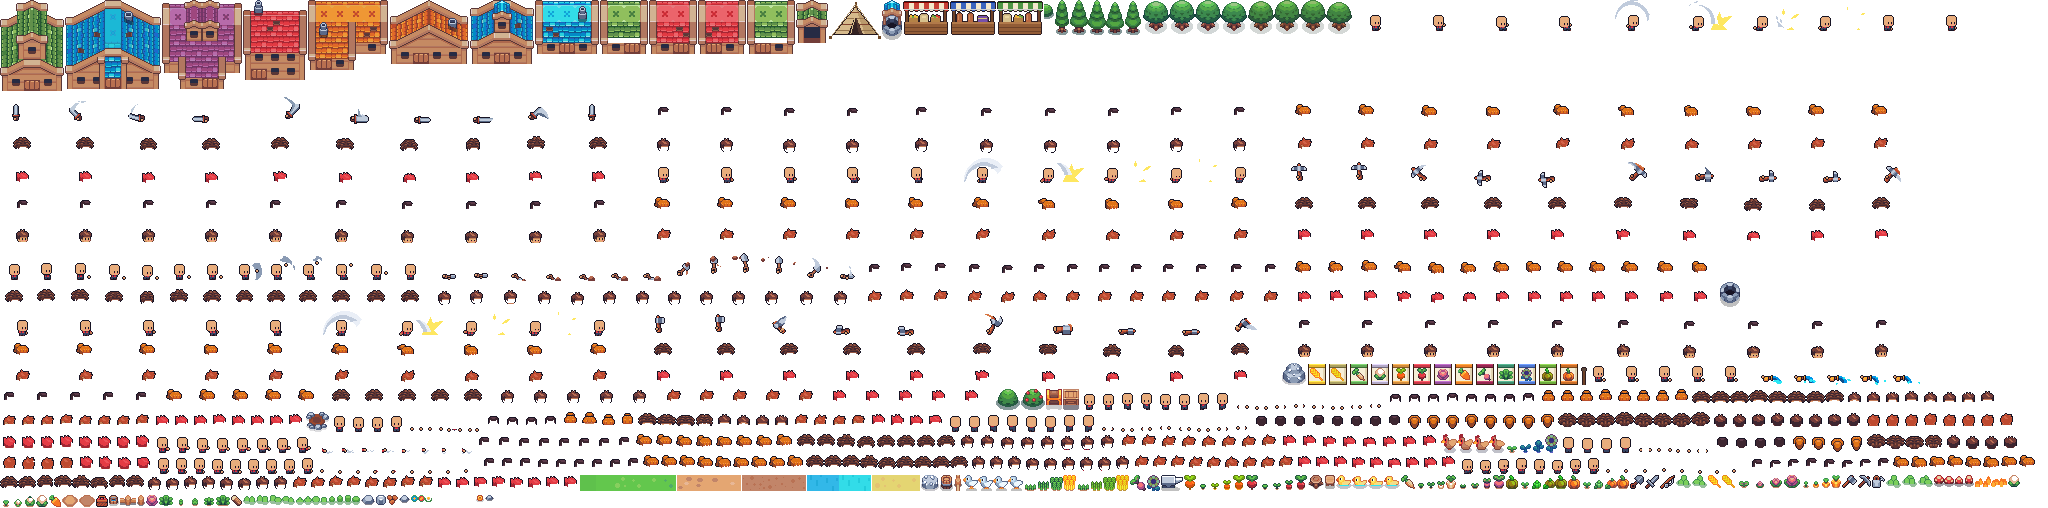
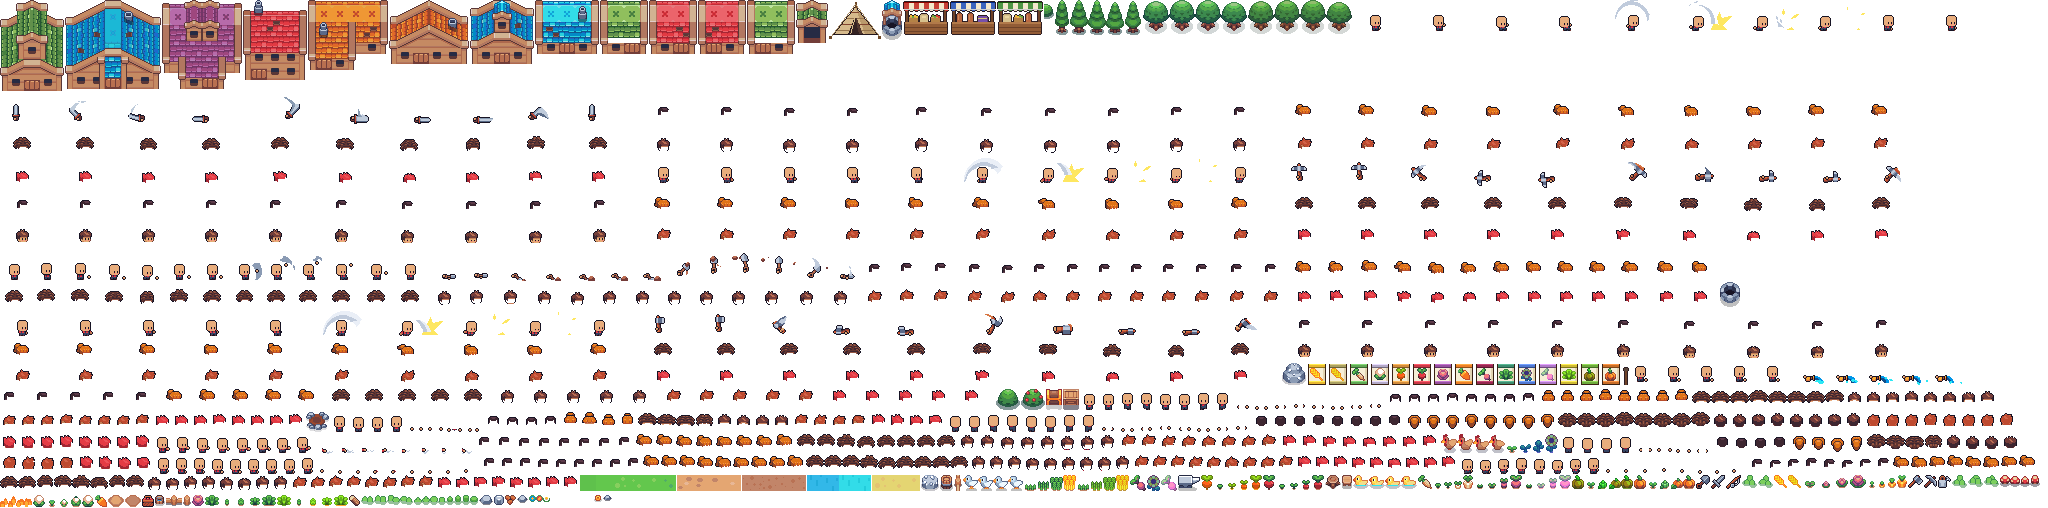
Enterable carpenter's workshop with Joseph at his planning table; winter crops (turnips, mustard, plus cabbage, leeks, garlic)
Claude-Session: https://claude.ai/code/session_01C2kAzymCygSubPfDnKkPKq

Changed region(s): [[0.5625, 0.9154, 1.0, 0.9744], [0.75, 0.7087, 0.9688, 0.7677], [0.0, 0.9744, 0.2812, 1.0]]

diff --git a/public/js/interior.js b/public/js/interior.js
@@ -9,6 +9,7 @@ const ROOMS = {
     gen: () => genSynagogue(), draw: (...a) => drawChurchRoom(...a),
   },
   inn: { name: 'The Inn', x0: 26, x1: 38, top: 22, bot: 31, door: 32, shop: 'inn', gen: () => genInn(), draw: (...a) => drawInnRoom(...a) },
+  carpenter: { name: 'Carpenter', x0: 28, x1: 36, top: 23, bot: 30, door: 32, shop: 'carpenter', gen: () => genCarp(), draw: (...a) => drawCarpRoom(...a) },
   smithy: { name: 'Blacksmith', x0: 28, x1: 36, top: 23, bot: 30, door: 32, shop: 'smithy', gen: () => genSmithy(), draw: (...a) => drawSmithyRoom(...a) },
 };
 // door of a building in town, in world tiles: [centre x, the y just in front of it]
@@ -16,7 +17,7 @@ function bldDoor(k) {
   for (let i = 0; i < W * H; i++) { const o = World.maps.town.objs[i]; if (o && o.t === 'bld' && o.k === k) { const x = i % W, y = (i / W) | 0, b = BLD[k], s = AT[b[0]][0]; return [(x * 16 + b[1] * 8 - s.width / 2 + DOOR_PX[k]) / 16, y + 1] } }
   return null;
 }
-const DOOR_PX = { synagogue: 48, smithy: 16, inn: 48 };   // door centre, in pixels from the left of the building sprite
+const DOOR_PX = { synagogue: 48, smithy: 16, inn: 48, carpenter: 30 };   // door centre, in pixels from the left of the building sprite
 
 // ---------- the synagogue's room ----------
 // a blank room: solid everywhere outside the floor, with a gap for the door. Returns a furniture placer.
@@ -32,6 +33,12 @@ function genInn() {
   put(29, 25, 'bar', 6);                                    // Miriam serves food across this
   for (const [x, y] of [[26, 27], [36, 27], [26, 30], [36, 30]]) put(x, y, 'table', 3);
   put(38, 25, 'ibarrel'); put(26, 25, 'iplant');
+}
+function genCarp() {
+  const put = roomBase(ROOMS.carpenter);
+  put(28, 23, 'lumber', 2); put(30, 23, 'pegboard', 2); put(33, 23, 'models', 2);
+  put(29, 26, 'plans', 7);                                  // order buildings from Joseph across this
+  put(35, 24, 'sawhorse'); put(28, 28, 'chair'); put(36, 28, 'planks'); put(28, 30, 'sbarrel'); put(36, 30, 'iplant');
 }
 function genSmithy() {
   const put = roomBase(ROOMS.smithy);
@@ -120,7 +127,7 @@ function drawChurchRoom(g, x0, y0, x1, y1, t) {
 
 function drawFurn(g, o, x, y, t) {
   const X = x * 16, Y = y * 16, B = Y + 16, w = (o.w || 1) * 16;
-  if (drawSmithFurn(g, o, X, Y, B, w, t) || drawInnFurn(g, o, X, Y, B, w, t)) return;
+  if (drawSmithFurn(g, o, X, Y, B, w, t) || drawInnFurn(g, o, X, Y, B, w, t) || drawCarpFurn(g, o, X, Y, B, w, t)) return;
   const shadow = (sx, sw) => px(g, 'rgba(60,35,15,.22)', sx, B - 2, sw, 2);
   switch (o.k) {
     case 'pew': {   // walnut benches, gold caps, crimson cushions
@@ -384,6 +391,91 @@ function drawInnFurn(g, o, X, Y, B, w, t) {
   return true;
 }
 
+// ---------- the carpenter's workshop ----------
+const CP = { ink: '#2e1a0e', wallA: '#b8875a', wallB: '#a77a50', wallLine: '#7e5634', post: '#6a4426', postHi: '#8e5e36', postLo: '#432916',
+  floorA: '#d0a46e', floorB: '#c4986a', floorLine: '#9a7048', dust: '#ead2a0', dustLo: '#d6b880', plank: '#d9a868', plankHi: '#f0c890', plankLo: '#a8784a',
+  paper: '#f2e8cc', blue: '#3a6ab0', iron: '#6c7884', ironHi: '#a7b3bf' };
+function drawCarpRoom(g, x0, y0, x1, y1, t) {
+  const R = ROOMS[World.cur]; g.fillStyle = WG.dark; g.fillRect(x0 * 16, y0 * 16, (x1 - x0 + 1) * 16, (y1 - y0 + 1) * 16);
+  const L = R.x0 * 16, Rr = (R.x1 + 1) * 16, T = R.top * 16, B = (R.bot + 1) * 16;
+  // wide pale floorboards running front to back, sprinkled with sawdust
+  for (let x = L, c = 0; x < Rr; x += 9, c++) { px(g, c % 2 ? CP.floorA : CP.floorB, x, T, 9, B - T); px(g, CP.floorLine, x + 8, T, 1, B - T); for (let y = T + ((c * 37) % 50); y < B; y += 50) px(g, CP.floorLine, x, y, 8, 1) }
+  for (let i = 0; i < 70; i++) { const sx = L + (hash(i, 3) * (Rr - L) | 0), sy = T + (hash(3, i) * (B - T) | 0); px(g, i % 3 ? CP.dust : CP.dustLo, sx, sy, i % 4 ? 1 : 2, 1) }
+  for (const [cx, cy, r] of [[L + 120, T + 30, 9], [L + 30, T + 74, 7], [Rr - 22, T + 60, 6]]) for (let i = 0; i < 26; i++) { const a = hash(i, cx) * 6.28, d = hash(cx, i) * r; px(g, i % 2 ? CP.dust : CP.dustLo, cx + Math.cos(a) * d | 0, cy + Math.sin(a) * d * .5 | 0, 2, 1) }
+  // back wall: horizontal timber boards with posts and a window
+  const WT = T - 40;
+  for (let y = WT, r = 0; y < T; y += 5, r++) { px(g, r % 2 ? CP.wallA : CP.wallB, L, y, Rr - L, 5); px(g, CP.wallLine, L, y + 4, Rr - L, 1) }
+  for (let x = L; x <= Rr - 4; x += 48) { px(g, CP.postLo, x, WT, 5, 40); px(g, CP.post, x + 1, WT, 3, 40); px(g, CP.postHi, x + 1, WT, 1, 40) }
+  px(g, CP.postLo, L, WT, Rr - L, 5); px(g, CP.post, L, WT, Rr - L, 4); px(g, CP.postHi, L, WT, Rr - L, 1); px(g, CP.ink, L, T - 1, Rr - L, 1);
+  const wx = 35 * 16 + 2; px(g, CP.ink, wx, WT + 9, 16, 16); px(g, '#9fd2ef', wx + 1, WT + 10, 14, 14); px(g, '#d5eefa', wx + 2, WT + 11, 4, 6); px(g, CP.post, wx + 7, WT + 10, 2, 14); px(g, CP.post, wx + 1, WT + 16, 14, 2); px(g, CP.postHi, wx - 1, WT + 25, 18, 2);
+  // a saw and a coil of rope hanging on the wall
+  px(g, CP.ink, L + 104, WT + 8, 1, 3); px(g, CP.iron, L + 98, WT + 11, 14, 4); px(g, CP.ironHi, L + 98, WT + 11, 14, 1); for (let i = 0; i < 7; i++) px(g, CP.ink, L + 98 + i * 2, WT + 15, 1, 1); px(g, CP.post, L + 110, WT + 10, 5, 6);
+  // side and front walls
+  for (const x of [L - 6, Rr]) { px(g, CP.ink, x, WT, 6, B - WT + 6); px(g, CP.postHi, x + 1, WT, 4, B - WT + 5); px(g, CP.post, x + 2, WT, 2, B - WT + 5) }
+  px(g, CP.ink, L - 6, B, Rr - L + 12, 6); px(g, CP.postHi, L - 5, B + 1, Rr - L + 10, 4); px(g, CP.post, L - 5, B + 2, Rr - L + 10, 2);
+  const dx = R.door * 16; px(g, WG.dark, dx, B, 16, 6); px(g, CP.postHi, dx - 1, B, 1, 6); px(g, CP.postHi, dx + 16, B, 1, 6);
+  px(g, CP.ink, dx + 1, B - 7, 14, 6); px(g, '#6a8a3a', dx + 2, B - 6, 12, 4); px(g, '#8aaa52', dx + 3, B - 5, 10, 1);
+}
+function drawCarpFurn(g, o, X, Y, B, w, t) {
+  const sh = (sx, sw) => px(g, 'rgba(60,35,15,.25)', sx, B - 2, sw, 2);
+  const plank = (x, y, len, vert) => { if (vert) { px(g, CP.ink, x, y, 5, len); px(g, CP.plank, x + 1, y + 1, 3, len - 2); px(g, CP.plankHi, x + 1, y + 1, 1, len - 2) } else { px(g, CP.ink, x, y, len, 5); px(g, CP.plank, x + 1, y + 1, len - 2, 3); px(g, CP.plankHi, x + 1, y + 1, len - 2, 1) } };
+  switch (o.k) {
+    case 'lumber': {   // upright boards leaning in a rack
+      sh(X, w); px(g, CP.ink, X + 1, Y - 30, w - 2, 46); px(g, CP.postLo, X + 2, Y - 29, w - 4, 44);
+      for (let i = 0; i < 5; i++) plank(X + 3 + i * 5, Y - 28 + (i % 2) * 3, 42 - (i % 2) * 3, true);
+      px(g, CP.post, X + 1, Y - 8, w - 2, 3); px(g, CP.postHi, X + 1, Y - 8, w - 2, 1);
+      break;
+    }
+    case 'pegboard': {
+      px(g, CP.ink, X + 1, Y - 32, w - 2, 22); px(g, CP.plankLo, X + 2, Y - 31, w - 4, 20);
+      for (let yy = Y - 29; yy < Y - 12; yy += 4) for (let xx = X + 4; xx < X + w - 3; xx += 4) px(g, CP.postLo, xx, yy, 1, 1);
+      px(g, CP.post, X + 5, Y - 27, 2, 12); px(g, CP.postLo, X + 3, Y - 28, 6, 4);                                  // mallet
+      px(g, CP.iron, X + 12, Y - 28, 2, 10); px(g, CP.post, X + 12, Y - 18, 2, 4);                                  // chisel
+      px(g, CP.iron, X + 16, Y - 28, 2, 8); px(g, CP.post, X + 16, Y - 20, 2, 5);                                   // chisel
+      px(g, CP.ink, X + 21, Y - 28, 8, 7); px(g, CP.iron, X + 22, Y - 27, 6, 5); px(g, CP.post, X + 22, Y - 21, 2, 6);   // hand plane / square
+      // workbench under it
+      sh(X, w); px(g, CP.ink, X, Y - 2, w, 18); px(g, CP.plankHi, X + 1, Y - 1, w - 2, 3); px(g, CP.plank, X + 1, Y + 2, w - 2, 2); px(g, CP.post, X + 2, Y + 4, 3, 11); px(g, CP.post, X + w - 5, Y + 4, 3, 11); px(g, CP.postLo, X + 5, Y + 9, w - 10, 2);
+      px(g, CP.ink, X + 8, Y - 5, 8, 4); px(g, CP.iron, X + 9, Y - 4, 6, 2); px(g, CP.dust, X + 18, Y - 3, 6, 1); px(g, CP.dustLo, X + 20, Y - 4, 3, 1);
+      break;
+    }
+    case 'models': {   // shelf of little model buildings
+      sh(X + 1, w - 2); px(g, CP.ink, X + 1, Y - 22, w - 2, 38); px(g, CP.post, X + 2, Y - 21, w - 4, 36); px(g, CP.postHi, X + 2, Y - 21, w - 4, 1);
+      for (let r = 0; r < 2; r++) px(g, CP.postLo, X + 3, Y - 19 + r * 14, w - 6, 12);
+      const house = (hx, hy, roof, wd) => { px(g, CP.ink, hx, hy - 9, wd, 10); px(g, '#e8d2a8', hx + 1, hy - 5, wd - 2, 5); px(g, roof, hx + 1, hy - 8, wd - 2, 3); px(g, CP.ink, hx + (wd >> 1) - 1, hy - 3, 2, 3) };
+      house(X + 4, Y - 8, '#6aa04a', 10); house(X + 17, Y - 8, '#c0503a', 12);                                     // farmhouse, barn
+      house(X + 6, Y + 6, '#d9a04a', 8); px(g, CP.ink, X + 18, Y + 1, 9, 5); px(g, CP.paper, X + 19, Y + 2, 7, 3); px(g, CP.blue, X + 20, Y + 3, 5, 1);   // coop, rolled plan
+      px(g, CP.ink, X + 2, Y + 11, w - 4, 5); px(g, CP.post, X + 3, Y + 12, w - 6, 3);
+      break;
+    }
+    case 'plans': {    // the big planning table you order buildings across
+      sh(X, w); px(g, CP.ink, X, Y - 4, w, 20); px(g, CP.plankHi, X + 1, Y - 3, w - 2, 4); px(g, CP.plank, X + 1, Y + 1, w - 2, 14);
+      for (let i = 0; i < w - 2; i += 14) { px(g, CP.plankLo, X + 2 + i, Y + 3, 12, 10); px(g, CP.plank, X + 3 + i, Y + 4, 10, 8) }
+      // a big blueprint, a pencil, a ruler and a small hand bell
+      const px0 = X + 22; px(g, CP.ink, px0, Y - 11, 40, 9); px(g, CP.blue, px0 + 1, Y - 10, 38, 7);
+      for (const [a, b, c, d] of [[4, 2, 14, 1], [4, 2, 1, 4], [17, 2, 1, 4], [4, 5, 14, 1], [10, 0, 1, 2], [8, 0, 5, 1], [22, 2, 12, 1], [22, 2, 1, 4], [33, 2, 1, 4], [22, 5, 12, 1], [26, 4, 3, 2]]) px(g, '#d6e4f6', px0 + 1 + a, Y - 10 + b, c, d);
+      px(g, CP.ink, X + 70, Y - 7, 14, 3); px(g, '#e0c050', X + 71, Y - 6, 12, 1);
+      px(g, CP.ink, X + 8, Y - 8, 3, 5); px(g, '#f2c94c', X + 9, Y - 7, 1, 3);
+      px(g, CP.ink, X + 92, Y - 9, 7, 6); px(g, '#e2b04a', X + 93, Y - 8, 5, 4); px(g, CP.ink, X + 95, Y - 10, 1, 1);
+      break;
+    }
+    case 'sawhorse': {
+      sh(X - 2, 20); px(g, CP.ink, X + 1, Y + 2, 2, 14); px(g, CP.ink, X + 13, Y + 2, 2, 14); px(g, CP.post, X + 2, Y + 3, 1, 12); px(g, CP.post, X + 13, Y + 3, 1, 12);
+      px(g, CP.ink, X - 3, Y - 3, 22, 7); px(g, '#8a5a32', X - 2, Y - 2, 20, 5); px(g, '#a8784a', X - 2, Y - 2, 20, 1); px(g, CP.ink, X + 17, Y - 2, 2, 5); px(g, '#e0b880', X + 17, Y - 1, 1, 3);   // a log
+      px(g, CP.iron, X + 6, Y - 9, 2, 7); px(g, CP.ironHi, X + 6, Y - 9, 1, 7); px(g, CP.post, X + 5, Y - 12, 4, 4);   // saw stuck in it
+      px(g, CP.dust, X + 5, B - 3, 6, 1); px(g, CP.dustLo, X + 7, B - 4, 3, 1);
+      break;
+    }
+    case 'chair': {    // a half-built chair
+      sh(X + 2, 12); px(g, CP.ink, X + 3, Y - 6, 10, 22); px(g, CP.plank, X + 4, Y - 5, 2, 20); px(g, CP.plank, X + 10, Y - 5, 2, 20); px(g, CP.plankHi, X + 4, Y - 5, 8, 2); px(g, CP.plankHi, X + 4, Y, 8, 1);
+      px(g, CP.ink, X + 2, Y + 4, 12, 4); px(g, CP.plank, X + 3, Y + 5, 10, 2); px(g, 'rgba(46,26,14,0)', 0, 0, 0, 0);
+      break;
+    }
+    case 'planks': { sh(X, 16); for (let i = 0; i < 4; i++) plank(X + 1 - (i % 2), Y + 10 - i * 4, 15, false); break }
+    default: return false;
+  }
+  return true;
+}
+
 // ---------- going in and out ----------
 async function enterBuilding(k) {
   const R = ROOMS[k]; if (!R) return;
@@ -480,6 +572,13 @@ function furnitureAction(o) {
     case 'table': say(pick(['A sturdy table, scrubbed clean. Someone left a few crumbs of bread.', 'A wooden table with a little oil lamp on it.', 'The table wobbles a little. Cozy anyway.'])); break;
     case 'ibarrel': say('A barrel of water for the kitchen.'); break;
     case 'iplant': say('A potted olive sapling.'); break;
+    case 'plans': { const j = npcs.find(n => n.v.id === 'joseph' && n.map === World.cur); if (j && shopOpen('carpenter')) talkTo(j); else say(closedMsg('carpenter')); break }
+    case 'lumber': say('Cedar, cypress and olive wood, stacked to dry. Joseph says cedar smells the best.'); break;
+    case 'pegboard': say('Joseph’s workbench. Mallets, chisels and a hand plane hang neatly above it.'); break;
+    case 'models': say('Little wooden models: a farmhouse, a barn and a chicken coop. Joseph builds these before the real thing.'); break;
+    case 'sawhorse': say('A log half sawn through. The sawdust smells sweet.'); break;
+    case 'chair': say('A chair Joseph is making. It still needs a seat.'); break;
+    case 'planks': say('A stack of smooth, sanded planks.'); break;
     case 'counter': { const j = npcs.find(n => n.v.id === 'jesse' && n.map === World.cur); if (j && shopOpen('smithy')) talkTo(j); else say(closedMsg('smithy')); break }
     case 'forge': say('The forge roars. The coals glow white-hot in the middle.'); break;
     case 'bellows': say('A big leather bellows for blowing air into the forge.'); break;

diff --git a/public/js/game.js b/public/js/game.js
@@ -86,7 +86,7 @@ async function action() {
   const vn = villagerNear(); if (vn) { talkTo(vn); return }
   const it = interactTarget();
   if (it) {
-    if (it.o.t === 'bld' || it.o.t === 'anvil') { const k = it.o.k; if (it.o.t === 'anvil') say('Jesse’s outdoor anvil, for big jobs on sunny days. His shop is inside.'); else if (it.o.shop === 'market') openMarket(); else if (k === 'smithy') tryBuildingDoor('smithy'); else if (k === 'inn') tryBuildingDoor('inn'); else if (k === 'synagogue') tryBuildingDoor('synagogue'); else if (k === 'carpenter') openCarpenter(); else if (k === 'farmhouse') { const v = await say('Your farmhouse. Go to sleep for the night?', [['Sleep', 1], ['Not yet', 0]]); if (v) goSleep() } else if (k === 'coop' || k === 'barn') say(`Your new ${k} smells of fresh timber. It’s ready for animals, which are coming soon!`); else if (k === 'well') say('The old town well. The water is cool and clear.'); else say(pick(['A villager’s home. Nobody answers when you knock.', 'A villager’s home. It looks like nobody is in right now.', 'Someone’s home. You hear a pot bubbling inside, but nobody comes to the door.'])); return }
+    if (it.o.t === 'bld' || it.o.t === 'anvil') { const k = it.o.k; if (it.o.t === 'anvil') say('Jesse’s outdoor anvil, for big jobs on sunny days. His shop is inside.'); else if (it.o.shop === 'market') openMarket(); else if (k === 'smithy') tryBuildingDoor('smithy'); else if (k === 'inn') tryBuildingDoor('inn'); else if (k === 'synagogue') tryBuildingDoor('synagogue'); else if (k === 'carpenter') tryBuildingDoor('carpenter'); else if (k === 'farmhouse') { const v = await say('Your farmhouse. Go to sleep for the night?', [['Sleep', 1], ['Not yet', 0]]); if (v) goSleep() } else if (k === 'coop' || k === 'barn') say(`Your new ${k} smells of fresh timber. It’s ready for animals, which are coming soon!`); else if (k === 'well') say('The old town well. The water is cool and clear.'); else say(pick(['A villager’s home. Nobody answers when you knock.', 'A villager’s home. It looks like nobody is in right now.', 'Someone’s home. You hear a pot bubbling inside, but nobody comes to the door.'])); return }
     if (it.o.t === 'ifurn') { furnitureAction(it.o); return }
     if (it.o.t === 'tent') { const v = await say('Your tent. Go to sleep for the night?', [['Sleep', 1], ['Not yet', 0]]); if (v) goSleep(); return }
     if (it.o.t === 'sign') { say(it.o.text); return }

diff --git a/public/js/farming.js b/public/js/farming.js
@@ -1,18 +1,20 @@
 // Farming: tilled soil, watering, seeds, crops that grow day by day, and the merchant's seed cart.
 'use strict';
-const CROPS = {   // seasons: 0 spring, 1 summer, 2 autumn (winter is for resting the land)
+const CROPS = {   // seasons: 0 spring, 1 summer, 2 autumn, 3 winter (Bethlehem's mild, rainy winter)
   radish: { n: 'Radishes', sn: 'Radish', days: 3, seed: 12, sell: 28, seasons: [0] },
   wheat: { n: 'Wheat', days: 4, seed: 10, sell: 25, seasons: [0, 1] },
   barley: { n: 'Barley', days: 5, seed: 15, sell: 35, seasons: [0, 2] },
   onion: { n: 'Onions', sn: 'Onion', days: 5, seed: 20, sell: 45, seasons: [0] },
-  leek: { n: 'Leeks', sn: 'Leek', days: 6, seed: 20, sell: 50, seasons: [0] },
-  garlic: { n: 'Garlic', days: 7, seed: 30, sell: 75, seasons: [0] },
-  cabbage: { n: 'Cabbage', days: 9, seed: 45, sell: 125, seasons: [0] },
+  leek: { n: 'Leeks', sn: 'Leek', days: 6, seed: 20, sell: 50, seasons: [0, 3] },
+  garlic: { n: 'Garlic', days: 7, seed: 30, sell: 75, seasons: [0, 3] },
+  cabbage: { n: 'Cabbage', days: 9, seed: 45, sell: 125, seasons: [0, 3] },
   carrot: { n: 'Carrots', sn: 'Carrot', days: 4, seed: 15, sell: 38, seasons: [1, 2] },
   coriander: { n: 'Coriander', days: 5, seed: 25, sell: 62, seasons: [1, 2] },
   flax: { n: 'Flax', days: 6, seed: 30, sell: 82, seasons: [1] },
   melon: { n: 'Melons', sn: 'Melon', days: 10, seed: 70, sell: 210, seasons: [1] },
   beet: { n: 'Beets', sn: 'Beet', days: 6, seed: 25, sell: 66, seasons: [2] },
+  turnip: { n: 'Turnips', sn: 'Turnip', days: 5, seed: 20, sell: 52, seasons: [3] },
+  mustard: { n: 'Mustard Greens', sn: 'Mustard', days: 4, seed: 15, sell: 40, seasons: [3] },
   gourd: { n: 'Gourds', sn: 'Gourd', days: 11, seed: 75, sell: 240, seasons: [2] },
 };
 const CAN_MAX = 40;

diff --git a/public/js/npc.js b/public/js/npc.js
@@ -42,6 +42,7 @@ function villagerHome(n, k) {
   if (inService()) return n.v.id === 'simeon' ? ['synagogue', 32.5, 25.35, 0] : ['synagogue', ...SEATS[k % SEATS.length], 0];
   if (n.v.id === 'simeon' && state.time >= 8 * 60 && state.time < 18 * 60) return ['synagogue', 30.5, 27.6, 1.2];
   if (n.v.id === 'jesse' && shopOpen('smithy')) return ['smithy', 32.5, 25.2, .9];          // behind his counter
+  if (n.v.id === 'joseph' && shopOpen('carpenter')) return ['carpenter', 32.5, 25.2, .9];    // behind his planning table
   if (n.v.id === 'miriam' && shopOpen('inn')) return ['inn', 32, 24.2, 1];                    // behind her bar
   const P = INN_GUESTS[n.v.id]; if (P && state.time >= 19 * 60 && state.time < 22 * 60) return ['inn', P[0], P[1], 0];   // supper at the inn
   if (!villagersOut()) return ['away', 0, 0, 0];

diff --git a/public/sw.js b/public/sw.js
@@ -1,5 +1,5 @@
 // Network first, fall back to cache so the game still opens offline.
-const CACHE='mlpl-v19';
+const CACHE='mlpl-v20';
 self.addEventListener('install',e=>self.skipWaiting());
 self.addEventListener('activate',e=>e.waitUntil(caches.keys().then(ks=>Promise.all(ks.filter(k=>k!==CACHE).map(k=>caches.delete(k)))).then(()=>self.clients.claim())));
 self.addEventListener('fetch',e=>{if(e.request.method!=='GET')return;e.respondWith(fetch(e.request).then(r=>{const c=r.clone();caches.open(CACHE).then(ca=>ca.put(e.request,c));return r}).catch(()=>caches.match(e.request)))});

diff --git a/tools/build_atlas.py b/tools/build_atlas.py
@@ -108,9 +108,9 @@ CR = A + 'Elements/Crops/'
 CROPART = {'wheat': ('wheat', None), 'barley': ('wheat', ((.78, .82, .5), (40, 40, 10))), 'leek': ('parsnip', None), 'garlic': ('cauliflower', None),
            'onion': ('radish', ((.95, .9, .35), (60, 45, 0))), 'radish': ('radish', None), 'cabbage': ('cabbage', None), 'carrot': ('carrot', None),
            'beet': ('beetroot', None), 'coriander': ('kale', None), 'flax': ('sunflower', ((.5, .75, 1.45), (0, 0, 40))),
-           'melon': ('pumpkin', ((.62, 1.05, .55), (0, 12, 0))), 'gourd': ('pumpkin', None)}
+           'turnip': ('beetroot', ((1.0, .78, 1.05), (70, 60, 70))), 'mustard': ('kale', ((1.15, 1.05, .45), (30, 30, 0))), 'melon': ('pumpkin', ((.62, 1.05, .55), (0, 12, 0))), 'gourd': ('pumpkin', None)}
 PACKET = {'wheat': (232, 184, 48), 'barley': (170, 160, 96), 'radish': (204, 58, 72), 'onion': (210, 140, 60), 'leek': (96, 168, 84), 'garlic': (180, 170, 200),
-          'cabbage': (150, 80, 160), 'carrot': (236, 128, 40), 'coriander': (60, 140, 110), 'flax': (80, 120, 210), 'melon': (110, 170, 60), 'beet': (150, 40, 80), 'gourd': (200, 110, 40)}
+          'cabbage': (150, 80, 160), 'carrot': (236, 128, 40), 'coriander': (60, 140, 110), 'flax': (80, 120, 210), 'melon': (110, 170, 60), 'beet': (150, 40, 80), 'gourd': (200, 110, 40), 'turnip': (176, 120, 200), 'mustard': (206, 186, 52)}
 def seed_packet(icon, c):
     """a 20x22 paper seed packet with the crop pictured full size on the front, in the crop's own colour"""
     dk = tuple(int(v * .62) for v in c); lt = tuple(min(255, int(v * 1.18 + 20)) for v in c)
